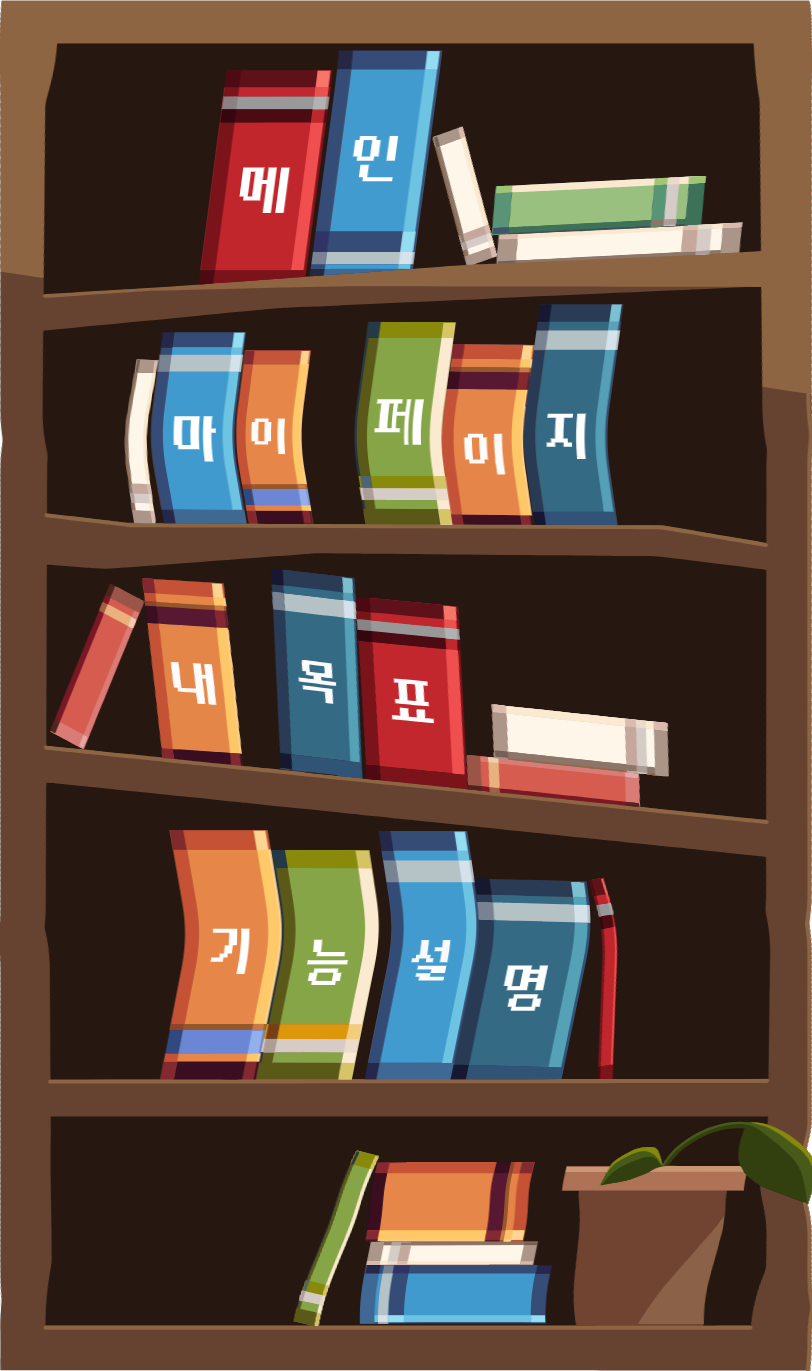
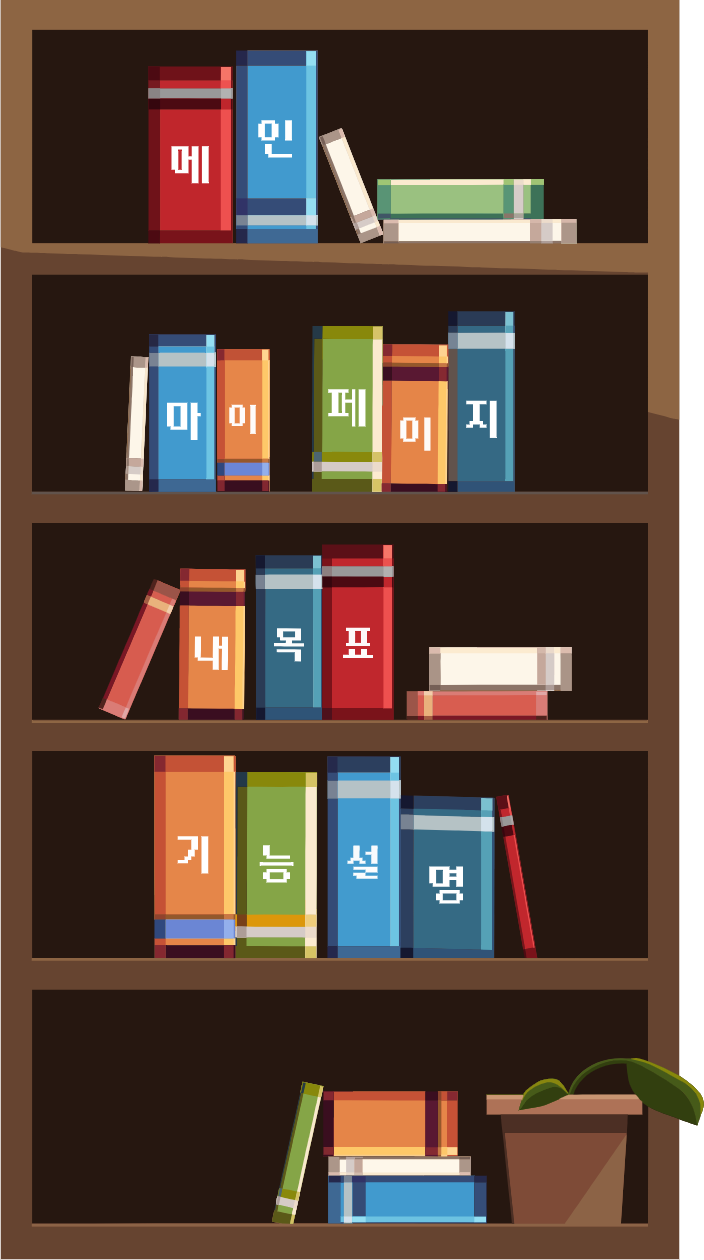
feat: 마이페이지 책장을 새로 받은 반듯한 그림으로 바꾼다
앞 그림은 손그림이라 바깥선이 물결치고(왼쪽 가장자리가 95px 폭으로
흔들렸다) 칸이 최대 12도 기울어 있었다. 자동으로 펴려던 세 번의 시도가
모두 어긋나 바깥선만 편 채로 두고 있었는데, 디자이너가 반듯한 704x1260
을 새로 그려줬다.

칸 다섯이 깨끗하게 잡힌다 — y 30/275/523/751/990, 안쪽 x 32~648.
책 없는 바탕(shelf_empty)과 칸별 타일(row1~5)을 다시 구웠다. 칸 안에서
나무가 아닌 것을 그늘색(38,23,16)으로 덮는 방식은 그대로다.

비율이 0.592 -> 0.559 로 길어져 폭 20% -> 19%, top 12.2% -> 11.8% 로
다시 잡았다. 재보면 서랍 밑이 바닥선과 같은 72.0% 다.

서랍 자리는 화면 기준으로 고정했다. 세로가 긴 화면에서는 무대가 화면보다
넓어 무대 왼쪽이 화면 밖인데, left:-2% 로 두면 책 이름의 첫 글자가
잘렸다(1440x860 에서 71px). 화면 왼쪽에서 14px 자리를 계산해 붙인다.

diff --git a/public/css/room.css b/public/css/room.css
@@ -104,9 +104,18 @@ button.o-books:hover .tip,button.o-books:focus-visible .tip{transform:translate(
 
 /* ───────────────────────── 책장 서랍 ─────────────────────────
    기본은 닫혀 있다. ☰ 를 누르면 왼쪽에서 밀려 들어온다. */
+/* 디자이너가 다시 그려준 반듯한 책장(704x1260). 앞 그림은 손그림이라
+   바깥선이 물결치고 칸이 기울어 있었다.
+   비율이 0.592 -> 0.559 로 길어져, 바닥선(72%)에 그대로 서도록 폭과
+   높이를 다시 잡았다. */
 .drawer{
-  position:absolute;left:-2.00%;top:12.20%;width:20.00%;
-  aspect-ratio:812 / 1371;z-index:20;
+  position:absolute;
+  /* 무대가 화면보다 넓을 때(세로가 길면 그렇다) 무대 왼쪽은 화면 밖이다.
+     -2% 로 두면 책 이름의 첫 글자가 잘린다. 화면 왼쪽에서 14px 자리를
+     계산해 붙이고, 넘칠 일이 없을 땐 1.5% 만 띄운다. */
+  left:max(1.5%, calc((100% - 100vw) / 2 + 14px));
+  top:11.80%;width:19.00%;
+  aspect-ratio:704 / 1260;z-index:20;
   transform:translateX(-106%);
   transition:transform .42s cubic-bezier(.22,.9,.28,1);
   filter:drop-shadow(14px 8px 22px rgba(16,10,6,.45))
@@ -116,7 +125,7 @@ body.nav-open .drawer{transform:translateX(0)}
 
 /* 칸 — 책 뭉치를 그대로 얹어두고, 올리면 앞으로 빠져나온다 */
 .srow{
-  position:absolute;left:5.42%;width:89.16%;display:block;
+  position:absolute;left:4.55%;width:87.50%;display:block;
   text-decoration:none;overflow:visible
 }
 .srow img{display:block;width:100%;height:auto;
@@ -135,12 +144,12 @@ a.srow:hover img,a.srow:focus-visible img{
 a.srow:hover span,a.srow:focus-visible span{opacity:1}
 a.srow:focus-visible{outline:none}
 
-/* 칸 자리 — 책장 그림(812×1371) 안에서의 비율 */
-.r1{top: 3.21%}
-.r2{top:23.49%}
-.r3{top:40.41%}
-.r4{top:62.14%}
-.r5{top:81.25%;pointer-events:none}
+/* 칸 자리 — 책장 그림(704×1260) 안에서의 비율 */
+.r1{top: 2.38%}
+.r2{top:21.83%}
+.r3{top:41.51%}
+.r4{top:59.60%}
+.r5{top:78.57%;pointer-events:none}
 
 .scrim{position:absolute;inset:0;z-index:15;background:rgba(18,10,5,.42);
   opacity:0;transition:opacity .3s ease}
